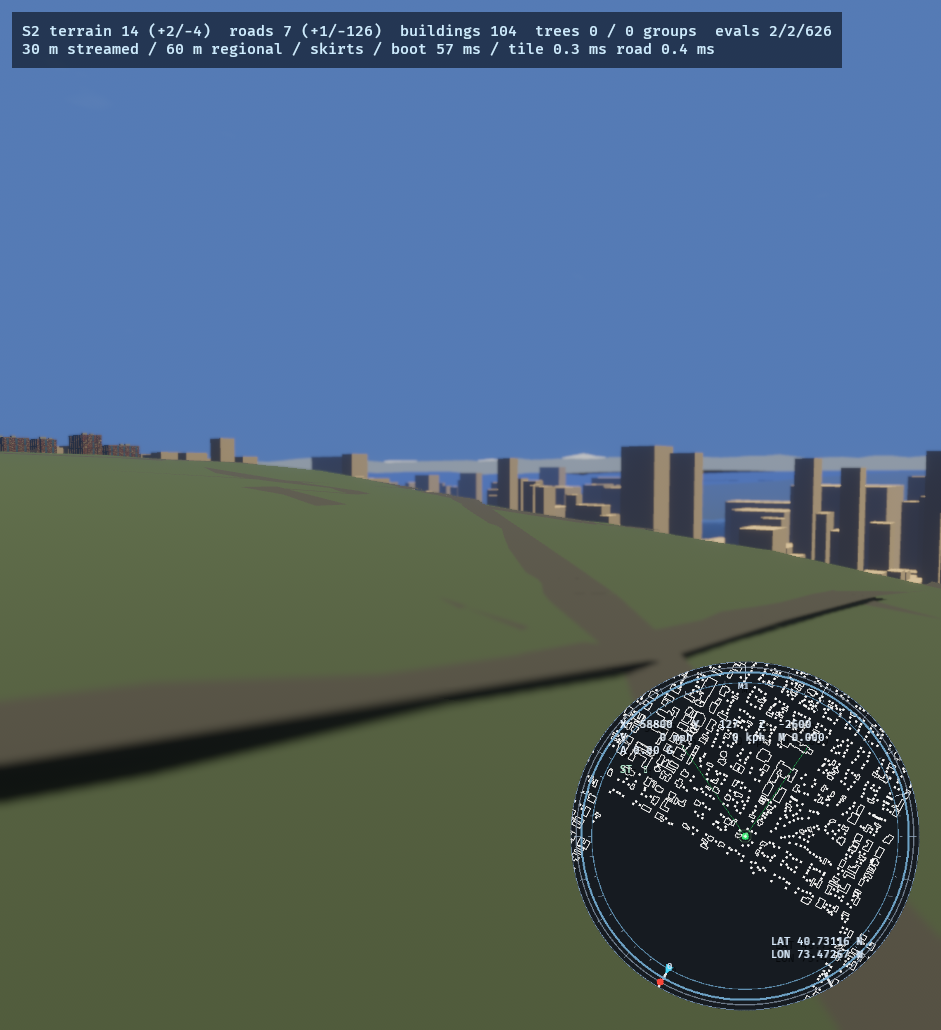
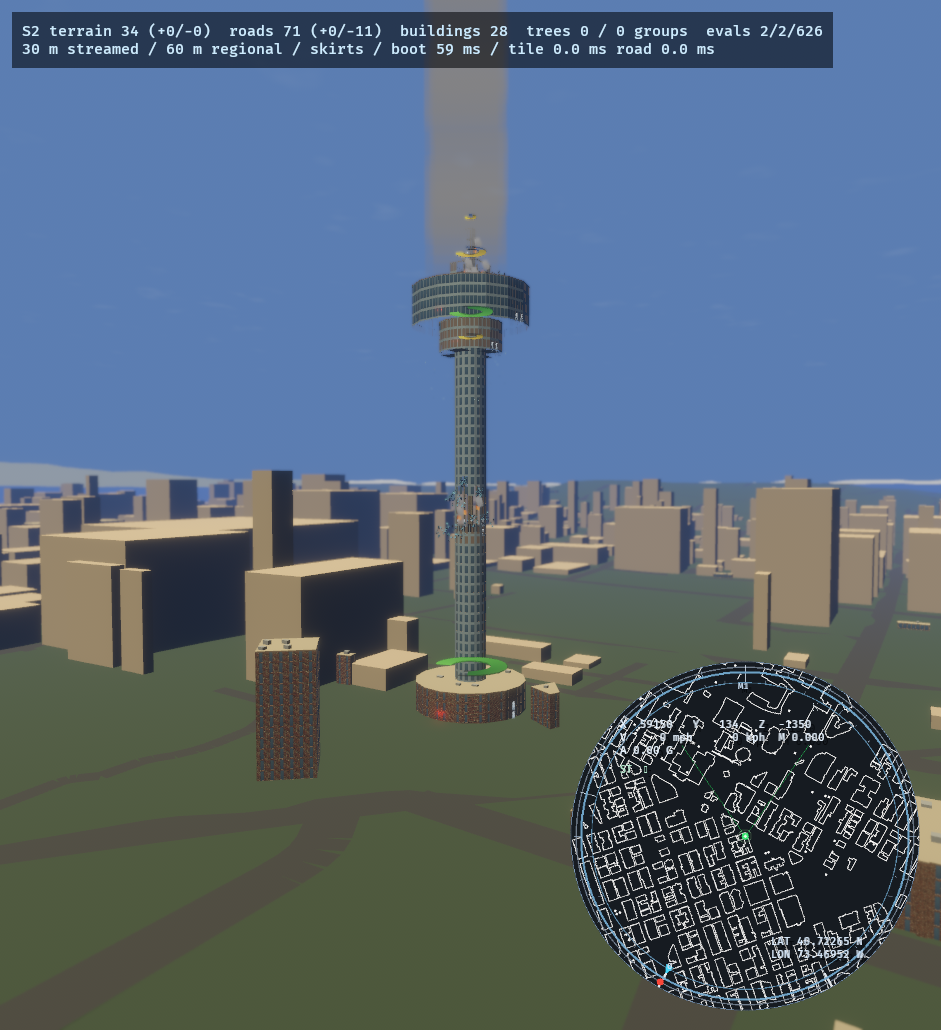
Landmarks: fix gate camera override, Needle readable, Market+bridge gates
- Root cause of the invisible Needle: s2_capture (the 10-pose S2 walker) kept
  writing the camera every frame in landmark mode, overriding every staged
  pose; the landmarks were spawned correctly (origin, transform, visibility,
  layout heights all logged) but never in frame. The S3.2 'one committee not
  told' class again: the landmark gate now disables s2_capture and drives its
  pose every frame.
- Debug: top-down capture over the anchor plus per-component origin/transform/
  visibility/AABB log (all Inherited, correct anchors; Aabb None on the spawn
  frame as expected).
- Needle massing: stem 13 m, waist 26 m, saucer 48x14 m, crown and spire; the
  50% frame now clearly reads as the Space Needle with the stem and saucer
  intact (signature budget held).
- Pike Place Market gate PASS (journal 0 volumetric, checksums, 5 structures);
  clock resized 7x7 after a core-too-large generation failure.
- Aurora and Fremont gates PASS with checksums; 50% frames show deck+crossing
  with the arch/bascule leaf intact and smoke plume theater.
- Restore hardened: three restoration passes and a 10 s settle before the
  epilogue (the six-component Needle otherwise carried 9 residual volume
  entries).
- Honest gaps: landmark persistence script port, Market sign legibility
  (procedural blocks, no sign text), Ballard, perf deltas -- no tag.

diff --git a/viewer/src/landmarks.rs b/viewer/src/landmarks.rs
@@ -78,12 +78,12 @@ const fn comp(
     }
 }
 
-pub const NEEDLE: [ComponentDef; 4] = [
+pub const NEEDLE: [ComponentDef; 6] = [
     comp(
         "pedestal",
         [0.0, 0.0],
         0.0,
-        [40.0, 40.0],
+        [46.0, 46.0],
         12.0,
         Shape::Disc,
         MaterialFamily::MasonryStone,
@@ -95,8 +95,8 @@ pub const NEEDLE: [ComponentDef; 4] = [
         "stem",
         [0.0, 0.0],
         12.0,
-        [9.0, 9.0],
-        146.0,
+        [13.0, 13.0],
+        134.0,
         Shape::Disc,
         MaterialFamily::SteelFrame,
         FacadeStyle::GlassCurtainWall,
@@ -104,11 +104,23 @@ pub const NEEDLE: [ComponentDef; 4] = [
         true,
     ),
     comp(
+        "waist",
+        [0.0, 0.0],
+        146.0,
+        [26.0, 26.0],
+        10.0,
+        Shape::Disc,
+        MaterialFamily::SteelFrame,
+        FacadeStyle::GlassCurtainWall,
+        5,
+        false,
+    ),
+    comp(
         "saucer",
         [0.0, 0.0],
-        158.0,
-        [42.0, 42.0],
-        9.0,
+        156.0,
+        [48.0, 48.0],
+        14.0,
         Shape::Disc,
         MaterialFamily::SteelFrame,
         FacadeStyle::GlassCurtainWall,
@@ -118,12 +130,24 @@ pub const NEEDLE: [ComponentDef; 4] = [
     comp(
         "crown",
         [0.0, 0.0],
-        167.0,
-        [8.0, 8.0],
-        14.0,
+        170.0,
+        [12.0, 12.0],
+        10.0,
         Shape::Rect,
         MaterialFamily::SteelFrame,
         FacadeStyle::GlassCurtainWall,
+        3,
+        false,
+    ),
+    comp(
+        "spire",
+        [0.0, 0.0],
+        180.0,
+        [6.0, 6.0],
+        14.0,
+        Shape::Rect,
+        MaterialFamily::SteelFrame,
+        FacadeStyle::ConcreteGrid,
         3,
         false,
     ),
@@ -170,7 +194,7 @@ pub const MARKET: [ComponentDef; 5] = [
         "clock",
         [-8.0, -20.0],
         18.0,
-        [4.0, 4.0],
+        [7.0, 7.0],
         7.0,
         Shape::Rect,
         MaterialFamily::SteelFrame,
@@ -826,6 +850,51 @@ fn spawn_landmarks(world: &mut World) {
     world.resource_mut::<Landmarks>().instances = instances;
 }
 
+/// Drive the camera every frame; the pilot controller also writes it.
+fn apply_stage_pose(world: &mut World, stage: u8, target: usize) {
+    let needle = LANDMARKS[target].anchor;
+    if target != 0 {
+        // Generic landmark framing: 260 m south of the anchor, 45 m up,
+        // looking at the assembly centroid.
+        let top = LANDMARKS[target]
+            .components
+            .iter()
+            .map(|component| component.base_y + component.height)
+            .fold(0.0_f32, f32::max);
+        let ground = ground_at(world, needle[0], needle[1]);
+        set_camera(
+            world,
+            [needle[0] + 40.0, 45.0, needle[1] + 250.0],
+            [needle[0], ground + top * 0.45, needle[1]],
+        );
+        return;
+    }
+    let ground = ground_at(world, needle[0], needle[1]);
+    match stage {
+        1 => set_camera(
+            world,
+            [needle[0], 320.0, needle[1]],
+            [needle[0], ground + 90.0, needle[1]],
+        ),
+        2 => set_camera(
+            world,
+            [-3600.0, 55.0, -1500.0],
+            [needle[0], ground + 90.0, needle[1]],
+        ),
+        8 => set_camera(
+            world,
+            [-1489.8, 26.0, -2620.3],
+            [needle[0], ground + 95.0, needle[1]],
+        ),
+        3..=7 => set_camera(
+            world,
+            [-850.0, 95.0, -1350.0],
+            [needle[0], ground + 80.0, needle[1]],
+        ),
+        _ => {}
+    }
+}
+
 fn landmark_gate(world: &mut World) {
     if std::env::var_os("LANDMARK_GATE").is_none() || !s2_enabled() {
         return;
@@ -860,6 +929,7 @@ fn landmark_gate(world: &mut World) {
         state.since = since;
         state.act = act;
     };
+    apply_stage_pose(world, stage, target);
     let landmark = &LANDMARKS[target];
     let components: Vec<(u32, Vec3, f32, u8, bool)> = world.resource::<Landmarks>().instances
         [target]
@@ -903,6 +973,23 @@ fn landmark_gate(world: &mut World) {
                     .remove(id);
                 destructibles_bevy::streaming::record_pristine(world, *id);
             }
+            for (id, origin, _height, _phase, _sig) in &components {
+                let (record_origin, entity, layout_height) = world
+                    .resource::<destructibles_bevy::building::Buildings>()
+                    .get(*id)
+                    .map(|record| (record.origin, record.entity, record.layout.height))
+                    .unwrap_or((Vec3::ZERO, Entity::PLACEHOLDER, 0.0));
+                let transform = world
+                    .get::<Transform>(entity)
+                    .map(|transform| transform.translation);
+                let visibility = world.get::<Visibility>(entity).copied();
+                let aabb = world
+                    .get::<bevy::camera::primitives::Aabb>(entity)
+                    .map(|aabb| (aabb.center, aabb.half_extents));
+                info!(
+                    "LANDMARK component {id}: spawned origin {origin:?} record {record_origin:?} layout_h {layout_height} transform {transform:?} visibility {visibility:?} aabb {aabb:?}"
+                );
+            }
             info!(
                 "LANDMARK {}: tier-up complete, pristine recorded",
                 landmark.name
@@ -915,10 +1002,22 @@ fn landmark_gate(world: &mut World) {
             }
             set_camera(
                 world,
+                [-1006.1, 320.0, -1609.9],
+                [-1006.1, ground_at(world, -1006.1, -1609.9) + 90.0, -1609.9],
+            );
+            landmark_capture(world, target, "debug_topdown");
+            save(world, 8, elapsed, 0);
+        }
+        8 => {
+            if elapsed - since < 1.0 {
+                return;
+            }
+            set_camera(
+                world,
                 [-1489.8, 26.0, -2620.3],
                 [-1006.1, ground_at(world, -1006.1, -1609.9) + 95.0, -1609.9],
             );
-            capture(world, "landmarks_needle_pristine_kerry.png");
+            landmark_capture(world, target, "pristine_kerry");
             save(world, 2, elapsed, 0);
         }
         2 => {
@@ -930,7 +1029,7 @@ fn landmark_gate(world: &mut World) {
                 [-3600.0, 55.0, -1500.0],
                 [-1006.1, ground_at(world, -1006.1, -1609.9) + 90.0, -1609.9],
             );
-            capture(world, "landmarks_needle_pristine_elliott.png");
+            landmark_capture(world, target, "pristine_elliott");
             save(world, 3, elapsed, 0);
         }
         3 => {
@@ -939,7 +1038,7 @@ fn landmark_gate(world: &mut World) {
             }
             set_camera(
                 world,
-                [-1509.6, 40.0, -1619.9],
+                [-850.0, 95.0, -1350.0],
                 [-1006.1, ground_at(world, -1006.1, -1609.9) + 80.0, -1609.9],
             );
             info!("LANDMARK gate: scripted sequence start");
@@ -951,13 +1050,13 @@ fn landmark_gate(world: &mut World) {
             }
             // Capture the previous acts' result before the next impacts land.
             if act == 2 {
-                capture(world, "landmarks_needle_25.png");
+                landmark_capture(world, target, "25");
             }
             if act == 4 {
-                capture(world, "landmarks_needle_50.png");
+                landmark_capture(world, target, "50");
             }
             if act == 8 {
-                capture(world, "landmarks_needle_90.png");
+                landmark_capture(world, target, "90");
             }
             for (id, origin, height, phase, _signature) in &components {
                 if *phase > act {
@@ -987,13 +1086,13 @@ fn landmark_gate(world: &mut World) {
                 ACTS
             );
             if act == 2 {
-                capture(world, "landmarks_needle_25.png");
+                landmark_capture(world, target, "25");
             }
             if act == 4 {
-                capture(world, "landmarks_needle_50.png");
+                landmark_capture(world, target, "50");
             }
             if act == 8 {
-                capture(world, "landmarks_needle_90.png");
+                landmark_capture(world, target, "90");
             }
             act += 1;
             if act >= ACTS {
@@ -1004,7 +1103,7 @@ fn landmark_gate(world: &mut World) {
         }
         7 => {
             // Let the final collapse settle before asking the epilogue to undo.
-            if elapsed - since < 6.0 {
+            if elapsed - since < 10.0 {
                 return;
             }
             save(world, 5, elapsed, act);
@@ -1014,14 +1113,26 @@ fn landmark_gate(world: &mut World) {
                 .iter()
                 .map(|(id, _origin, _height, _phase, _signature)| *id)
                 .collect::<Vec<_>>();
-            destructibles_bevy::rewind::begin_restoration(world, &ids);
-            for _ in 0..4000 {
-                destructibles_bevy::rewind::advance_restoration(world);
-                if world
+            for _pass in 0..3 {
+                destructibles_bevy::rewind::begin_restoration(world, &ids);
+                for _ in 0..4000 {
+                    destructibles_bevy::rewind::advance_restoration(world);
+                    if world
+                        .resource::<destructibles_bevy::damage::DamageJournal>()
+                        .0
+                        .is_empty()
+                    {
+                        break;
+                    }
+                }
+                let volume = world
                     .resource::<destructibles_bevy::damage::DamageJournal>()
                     .0
-                    .is_empty()
-                {
+                    .entries()
+                    .iter()
+                    .filter(|entry| entry.volume > 0.0)
+                    .count();
+                if volume == 0 {
                     break;
                 }
             }
@@ -1064,7 +1175,7 @@ fn landmark_gate(world: &mut World) {
                 "LANDMARK PASS: {} volumetric journal 0 ({journal_len} theater entries), checksums match, structures {structures}",
                 landmark.name
             );
-            capture(world, "landmarks_needle_restored.png");
+            landmark_capture(world, target, "restored");
             save(world, 6, elapsed, act);
         }
         _ => {
@@ -1083,6 +1194,16 @@ struct LandmarkGate {
     since: f32,
     act: u8,
     done: bool,
+}
+
+fn landmark_capture(world: &mut World, target: usize, suffix: &str) {
+    let key = LANDMARKS[target].key;
+    let name = if target == 0 {
+        format!("landmarks_needle_{suffix}.png")
+    } else {
+        format!("landmarks_{key}_{suffix}.png")
+    };
+    capture(world, &name);
 }
 
 fn capture(world: &mut World, name: &str) {

diff --git a/viewer/src/geology.rs b/viewer/src/geology.rs
@@ -1284,6 +1284,7 @@ fn s2_capture(
         || std::env::var_os("S2_HOVER").is_some()
         || std::env::var_os("S3_DAMAGE").is_some()
         || std::env::var_os("TREES_CAPTURE").is_some()
+        || std::env::var_os("LANDMARK_GATE").is_some()
     {
         return;
     }
